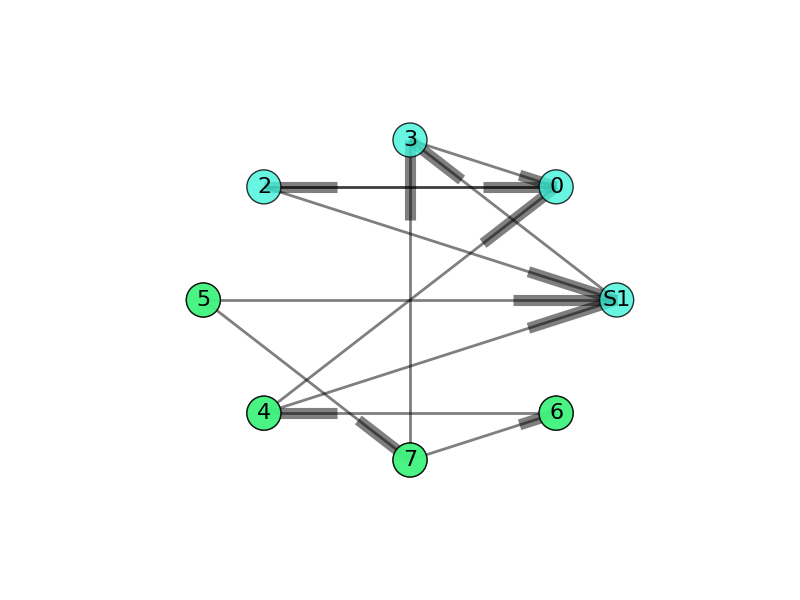
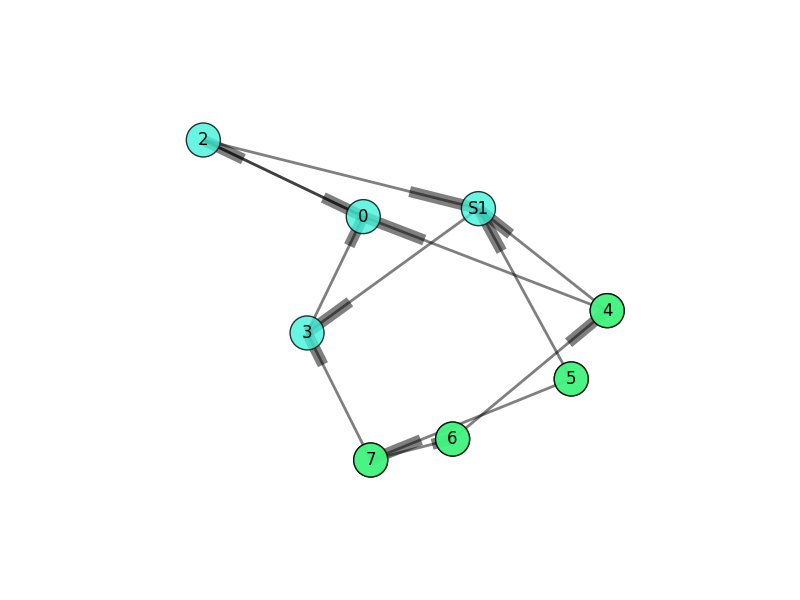
share

Changed region(s): [[0.2188, 0.18, 0.8125, 0.81], [0.4375, 0.54, 0.4688, 0.57], [0.2812, 0.54, 0.3125, 0.57]]

diff --git a/src/CTLModelChecker.py b/src/CTLModelChecker.py
@@ -14,30 +14,6 @@ class CTLModelChecker:
         parser = CTLParser()
         parser.CTL().parseString(formula)
         self.__formula = parser.getStack()
-        print formula
-        print self.__nodes
-
-    def checkFormula(self):
-        op =  self.__formula.pop()
-        listTemp = []
-        if op == '!':
-            elements = self.checkFormula()
-            for node in self.__nodes:
-                if node not in elements:
-                    listTemp.append(node)
-            return listTemp
-        elif op == '&':
-            elements0 = self.checkFormula()
-            elements1 = self.checkFormula()
-            for e in elements0:
-                if e in elements1:
-                    listTemp.append(e)
-            return listTemp
-        elif op[0].isalpha():
-            for node in self.__nodes:
-                if op in self.__nodes[node]:
-                    listTemp.append(node)
-            return listTemp
 
     def iterativeCheckFormula(self):
         satisfactionSet = []
@@ -127,3 +103,31 @@ class CTLModelChecker:
 
     def __checkNot(self, el0):
         return list(set(self.__nodes.keys()) - set(el0))
+
+    def getTs(self):
+        return self.__nodes
+
+    def getFormulaStack(self):
+        return self.__formula
+
+    # def checkFormula(self):
+    #     op =  self.__formula.pop()
+    #     listTemp = []
+    #     if op == '!':
+    #         elements = self.checkFormula()
+    #         for node in self.__nodes:
+    #             if node not in elements:
+    #                 listTemp.append(node)
+    #         return listTemp
+    #     elif op == '&':
+    #         elements0 = self.checkFormula()
+    #         elements1 = self.checkFormula()
+    #         for e in elements0:
+    #             if e in elements1:
+    #                 listTemp.append(e)
+    #         return listTemp
+    #     elif op[0].isalpha():
+    #         for node in self.__nodes:
+    #             if op in self.__nodes[node]:
+    #                 listTemp.append(node)
+    #         return listTemp

diff --git a/src/main.py b/src/main.py
@@ -3,29 +3,25 @@ from CTLModelChecker import CTLModelChecker
 from ENFConverter import ENFConverter
 import networkx as nx
 if __name__ == "__main__":
-    path = '../inputfiles/hello-world.gexf'
+    path = '../inputfiles/ts6_11.gexf'
     graph = nx.read_gexf(path)
-    pos=nx.circular_layout(graph,scale=2)
-    # print graph.nodes()
-    nx.draw_networkx_nodes(graph,pos,
-                       node_color='#42f4dc',
-                       node_size=600,
-                       alpha=0.8)
+    pos=nx.spring_layout(graph,scale=2)
+    nx.draw_networkx_nodes(graph,pos,node_color='#42f4dc',node_size=600,alpha=0.8)
     nx.draw_networkx_edges(graph,pos,width=2.0,arrows=True,alpha=0.5)
-    nx.draw_networkx_labels(graph,pos,font_size=16)
-    #nx.write_gexf("output.gexf")
+    nx.draw_networkx_labels(graph,pos,font_size=12)
     converter = ENFConverter()
-    convertedFormula = converter.convert("EE (!(!(a & c & !b) & !(!a & !c & b)))")
+    formula = "EE (!(!(a & c & !b) & !(!a & !c & b)))"
+    print "Formula: ",formula
+    convertedFormula = converter.convert(formula)
+    print "Formula in ENF: ", convertedFormula
     modelChecker = CTLModelChecker(path, convertedFormula)
+    print "Transition system: ",modelChecker.getTs()
+    print "Formula stack: ", modelChecker.getFormulaStack()
     print "Start check"
-    print "Elementi soddisfatti "
+    print "Risultato , Elementi soddisfatti "
     result = modelChecker.iterativeCheckFormula()
     print result
-    nx.draw_networkx_nodes(graph,pos,
-                       result[1],
-                       node_color='#42f46e',
-                       node_size=600,
-                       alpha=0.8)
+    nx.draw_networkx_nodes(graph,pos,result[1],node_color='#42f46e',node_size=600,alpha=0.8)
     plt.figure(1)
     plt.axis('off')
     plt.savefig("ts.png")
